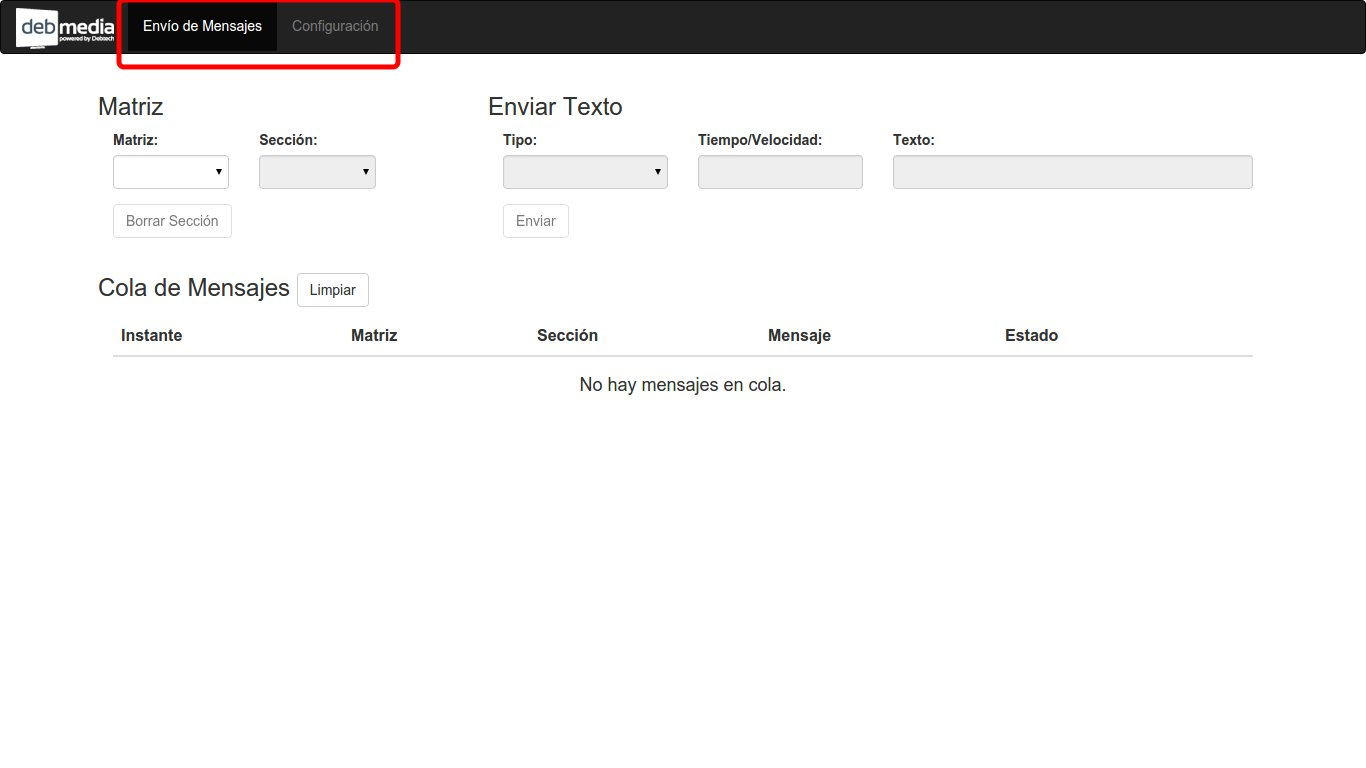
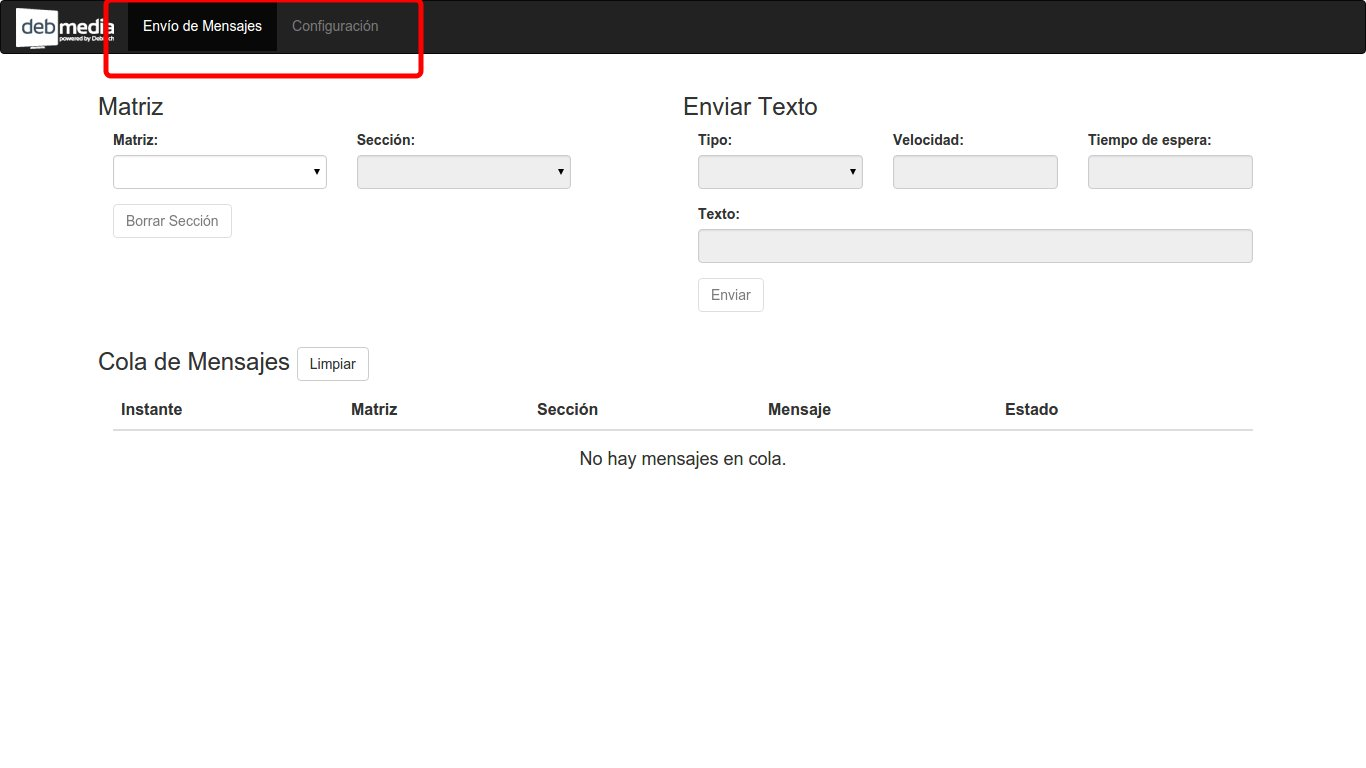
Actualizo documentación de la aplicación del Bingo.

diff --git a/_posts/2015-10-21-Bingo-Aplicacion-Matrices.md b/_posts/2015-10-21-Bingo-Aplicacion-Matrices.md
@@ -57,7 +57,11 @@ Los datos de conectividad de la matriz deben configurarse en la sección "Config
 
 ![Figura 6 - Conectividad]({{ site.url }}{{ site.baseurl }}/assets/user_manual/bingo/connectivity.jpg)
 
-Para enviar la configuración a la matriz, se debe seleccionar el puerto serie y presionar el botón "Enviar Configuración" (asegurarse de que el puerto de configuración de la matriz esté correctamente conectado a la PC). En caso de que se haya enviado correctamente o que existan errores en el envío se le indicará a través de una ventana.
+Para enviar la configuración a la matriz, se debe configurar la ip y el puerto actual de la matriz (ver siguiente figura) y luego presionar el botón "Enviar Configuración". En caso de que se haya enviado correctamente o que existan errores en el envío se le indicará a través de una ventana.
+
+![Figura 6 - Enviar configuración]({{ site.url }}{{ site.baseurl }}/assets/user_manual/bingo/connectivity_send.jpg)
+
+IMPORTANTE: En el caso que se quiera configurar por primera vez y la ip actual de la matriz no se encuentre en el rango de la red local, se deberá conectar directamente a la pc y configurar la pc con una ip fija en el mismo rango.
 
 ### Creación y modificación de textos dinámicos
 
@@ -95,9 +99,9 @@ Se debe seleccionar la matriz y la sección a la que se desea enviar el mensaje,
 
 ![Figura 10 - Mensajes]({{ site.url }}{{ site.baseurl }}/assets/user_manual/bingo/messages.jpg)
 
-En el campo "Tipo" se debe seleccionar el tipo de efecto que se le quiere dar al texto (quito, movil, quieto con colores invertidos o movil con colores invertidos). 
+En el campo "Tipo" se debe seleccionar el tipo de efecto que se le quiere dar al texto (quieto, movil, movil invertido, arriba, abajo). 
 
-En el campo "Tiempo/Velocidad" se debe ingresar la velocidad del texto, en el caso que se trate de un texto móvil, o el tiempo de visualización, en el caso que se trate de un texto quieto.
+En el campo "Velocidad" se debe ingresar la velocidad del efecto y en el campo "Tiempo" el tiempo en que permanece estático después de realizar el efecto.
 
 Al presionar el botón enviar, el mensaje se agregará en la cola para su posterior envío.
 
@@ -115,7 +119,7 @@ Los estados pueden ser:
 
 ![Figura 11 - Cola de mensajes]({{ site.url }}{{ site.baseurl }}/assets/user_manual/bingo/queue.jpg)
 
-Cada mensaje posee un botón "Borrar" que sirve para quitarlo de la cola. En el caso de que se deseen borrar todos los mensajes, se debe presionar en el botón "Limpiar".
+Cada mensaje posee un botón "Borrar" que sirve para quitarlo de la cola y un botón "Reenviar". En el caso de que se deseen borrar todos los mensajes, se debe presionar en el botón "Limpiar".
 
 # Textos Dinámicos
 
